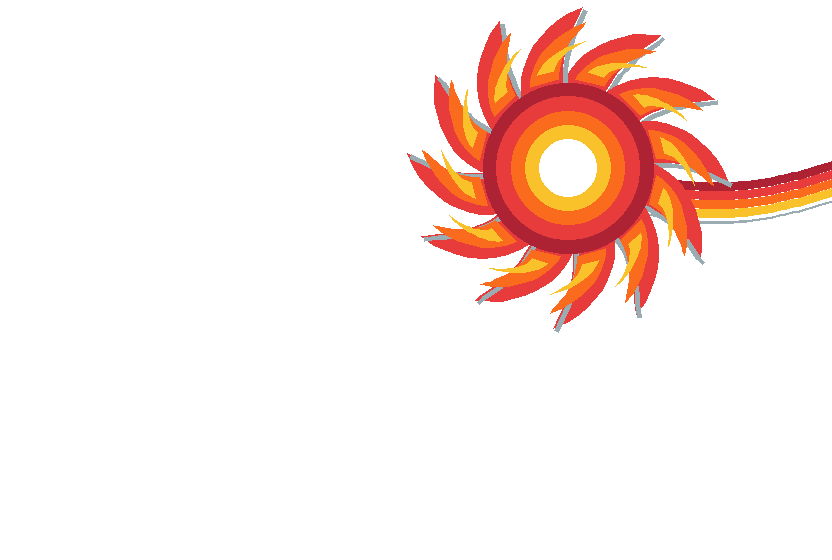
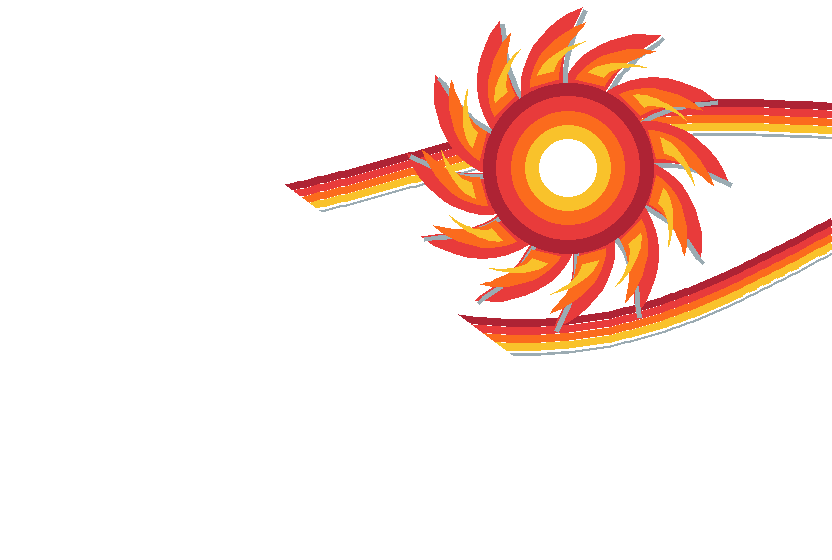
Two flowing sets of bands on the bow, from the stem past the sun
As on the real livery: one set climbs from low at the stem through the
sun and swells on aft, the other sweeps up under the sun; both behind it,
red, orange and yellow over a grey shadow line, with smooth joints.

Changed region(s): [[0.5625, 0.1518, 1.0, 0.6375], [0.3438, 0.2429, 0.5625, 0.3946]]

diff --git a/tools/build_ship_map.py b/tools/build_ship_map.py
@@ -642,15 +642,17 @@ def build_livery():
         d.polygon(left + right[::-1], fill=colour)
         return right
 
-    # The bands first, behind the sun: from its centre, sweeping aft to the block's end.
-    for k, colour in enumerate(("#ae2334", "#e83b3b", "#fb6b1d", "#f9c22b", "#9babb2")):
-        pts = []
-        for i in range(41):
-            t = i / 40
-            x = cx + (w - cx) * t
-            y = cy - 12 + k * 9 + 34 * math.sin(math.pi * t * 0.85) - 6 * t
-            pts.append((x, y))
-        d.line(pts, fill=colour, width=9 if colour != "#9babb2" else 3)
+    # Two sets of bands behind the sun, as on the real bow, from the stem back to the block's end:
+    # one through the sun's centre, rising aft; one sweeping under it.
+    def bands(y_of):
+        for k, colour in enumerate(("#ae2334", "#e83b3b", "#fb6b1d", "#f9c22b", "#9babb2")):
+            pts = [(w * i / 120, y_of(i / 120) + k * 8) for i in range(121)]
+            d.line(pts, fill=colour, width=8 if colour != "#9babb2" else 3, joint="curve")
+
+    # The upper set climbs from low at the stem, through the sun, and on up aft in a long swell;
+    # the lower set sweeps up under the sun and dips away aft.
+    bands(lambda t: cy + 34 - 96 * t + 22 * math.sin(2 * math.pi * t))
+    bands(lambda t: cy + r * 1.1 + 70 * math.sin(math.pi * t) - 40 * t - 30 * math.sin(2 * math.pi * t))
     for i in range(12):
         a = i * 30 - 75
         edge = ray(a, r * 0.95, r * 1.9, 19, "#e83b3b")
